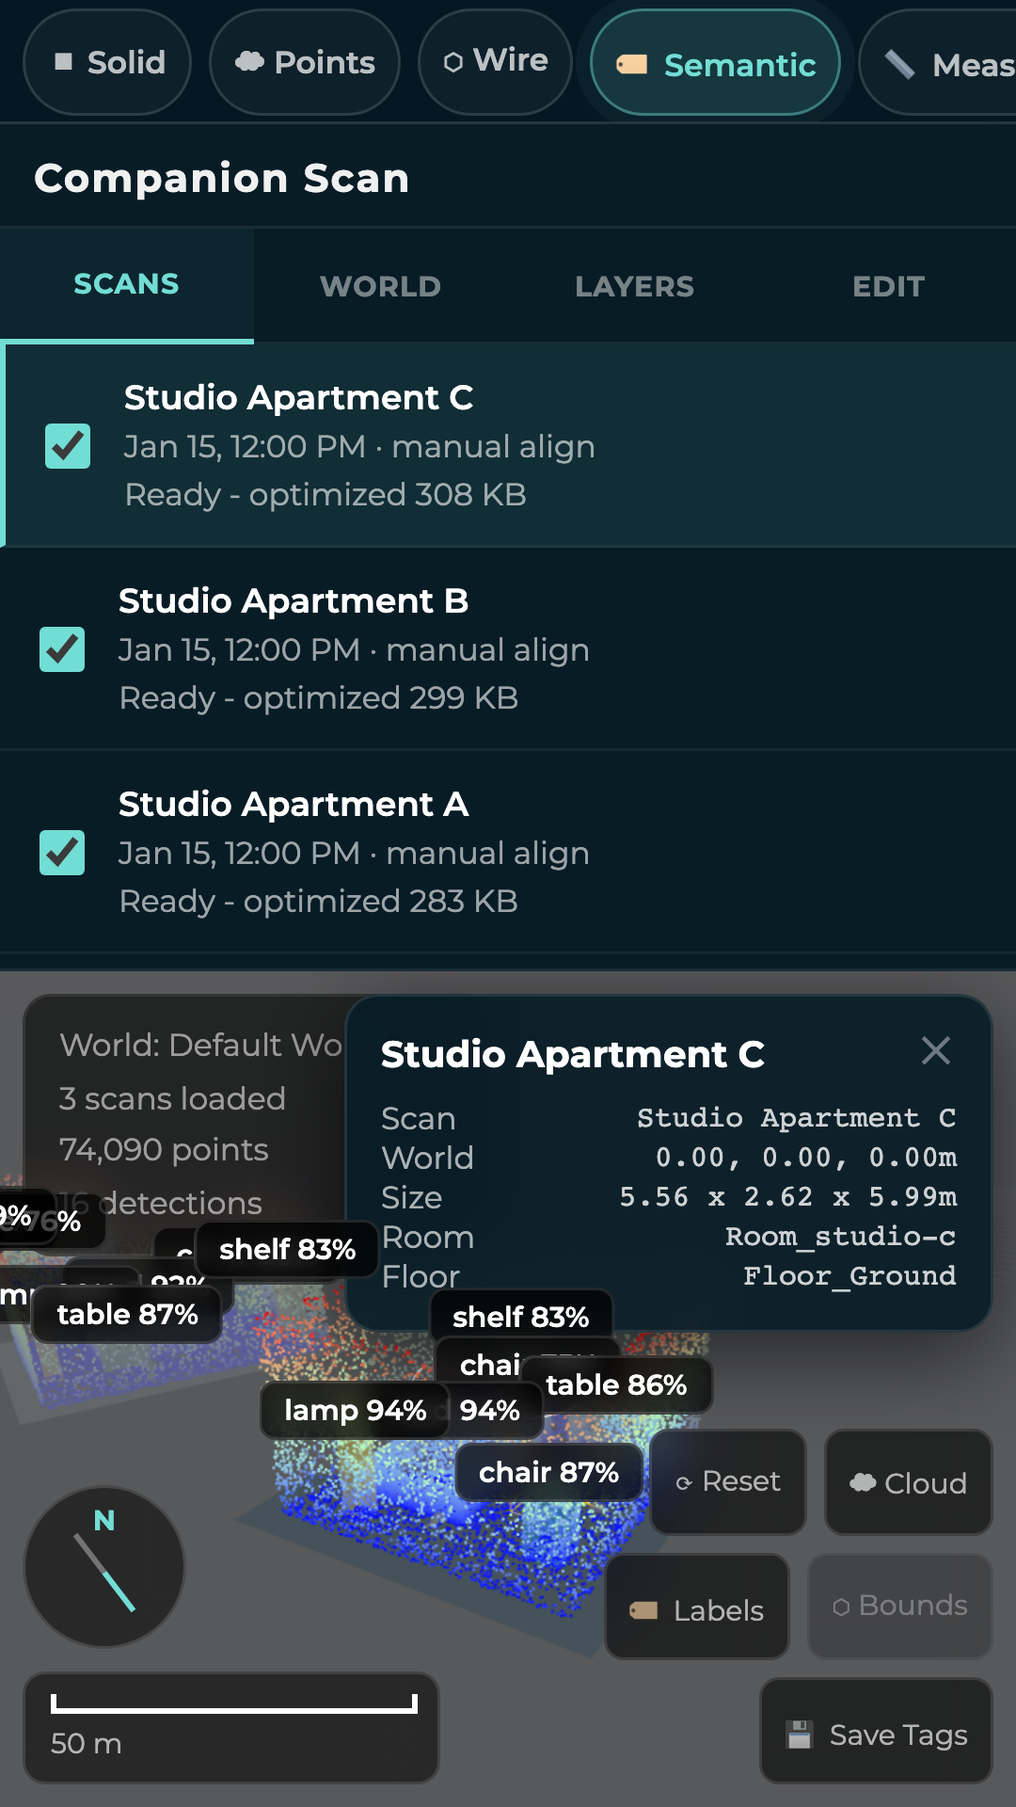
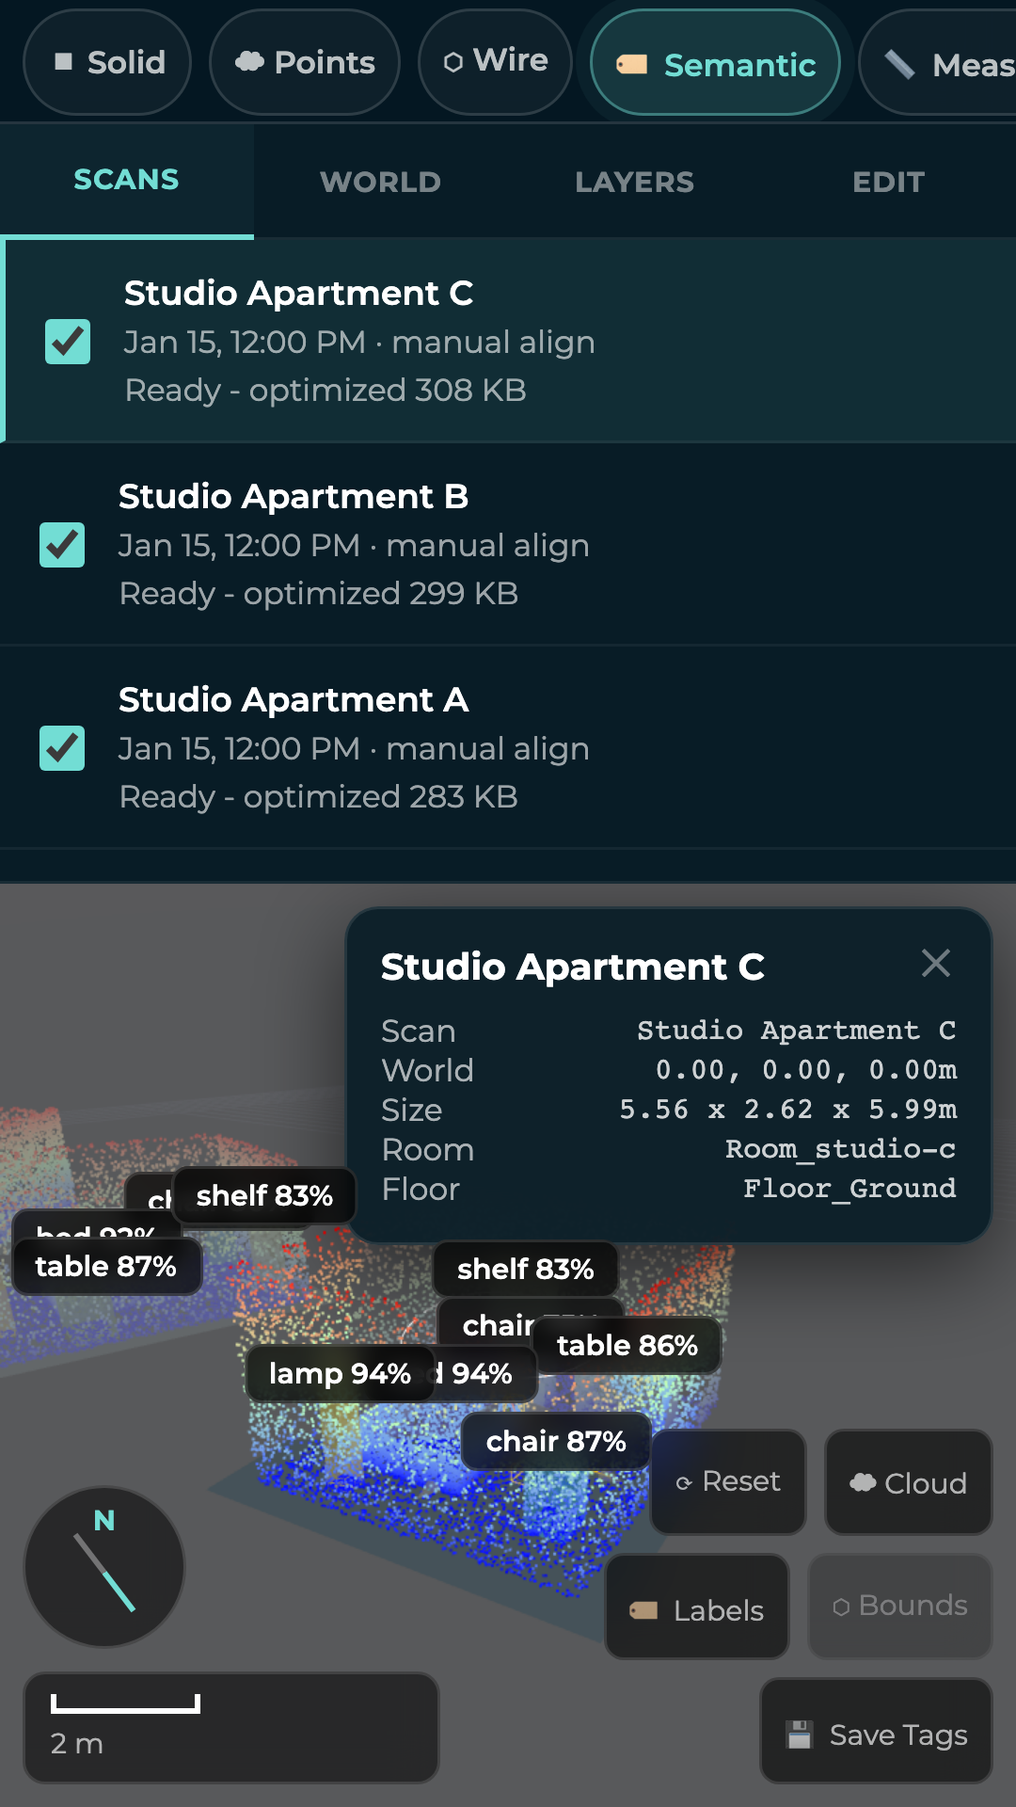
fix(mobile): give the review panel and the World Editor a 360 px layout
The five portrait frames PR #36 left unshot were never a capture problem.
Two screens had no working layout at 360x640, and the rule that stopped them
shipping was that a missing shot is a known gap while a bad shot is a lie.
Both screens are fixed at the source, so all seventeen shots now exist in
both viewports.

Review & Export. #panel-footer carries ten controls and stands ~490 px tall,
and #panel-content is `flex: 1` — a zero basis that claims only what is left,
which at 640 px was 84 px. The panel sliced its own empty state through the
middle of "No objects yet." and a detection card through its description row.
Below 700 px tall the footer is now the box that scrolls and the object list
keeps a 40vh floor; `min-height: 0` is load-bearing, because a flex item
defaults to `min-height: auto` and that is what pinned the footer at full
height. A box that really does overflow fades its bottom edge rather than
ending mid-word.

World Editor. `min-height: 300px` overrode the 44vh sitting next to it, so
the canvas was always a 296 px strip; #inspector-panel covered half the world
readout; and semantic chips clipped against the canvas edge, where
translate(-50%) rendered "lamp 94%" as "%". The viewport-relative height
applies again, the sidebar title bar (which repeats the toolbar's own product
name) and the collapse chevron (parked 28 px outside a full-width sidebar,
where #main-area clips it) drop on a phone, the readout yields to the
[…]

diff --git a/src/viewer/viewer.ts b/src/viewer/viewer.ts
@@ -353,6 +353,21 @@ function updatePointCloudLOD(): void {
   }
 }
 
+/** Breathing room between an edge-pinned chip and the canvas edge. */
+const LABEL_EDGE_PAD = 4
+/**
+ * How close to an edge an anchor has to be before its chip pins to that edge.
+ * Half the widest chip the semantic overlay can produce, plus the pad: chips are
+ * `<label> <confidence>%` at 10px/600 and `white-space: nowrap`, and the longest
+ * label in CATEGORY_COLORS ("bookcase 100%") measures about 92 px.
+ */
+const LABEL_EDGE_ZONE = 50
+/**
+ * Floor for a chip's anchor, so one near the top of the canvas is not cut by it.
+ * A chip is a single nowrap line — 20 px — lifted 6 px clear of its anchor.
+ */
+const LABEL_MIN_TOP = 20 + 6 + LABEL_EDGE_PAD
+
 function updateLabels(): void {
   const viewport = document.getElementById('viewport')!
   const width = viewport.clientWidth
@@ -375,14 +390,37 @@ function updateLabels(): void {
 
     const x = (projected.x * 0.5 + 0.5) * width
     const y = (-projected.y * 0.5 + 0.5) * height
-    if (x < -80 || x > width + 80 || y < -80 || y > height + 80) {
+    // Cull on the ANCHOR, not on a slack box around it. The old +/-80 px margin
+    // let objects that are off-camera label the frame anyway: in a world of three
+    // adjacent rooms, the two rooms either side of the framed one threw their
+    // chips at the canvas edge, where `translate(-50%)` sliced each one into a
+    // fragment — on a 360 px viewport "lamp 94%" arrived as "%". An object that
+    // is not on screen has no business naming anything on screen.
+    if (x < 0 || x > width || y < 0 || y > height) {
       label.el.style.display = 'none'
       continue
     }
 
     label.el.style.display = 'block'
-    label.el.style.left = `${x}px`
-    label.el.style.top = `${y}px`
+    // Keep the chip whole without ever measuring it. A chip is centred on its
+    // anchor by `translate(-50%)`, so an anchor close to the edge hangs half a
+    // box outside the canvas and gets sliced — that is how "lamp 94%" arrived as
+    // "%" at 360 px. Rather than read the box and clamp it, hand the alignment
+    // to CSS: inside the edge zone the chip pins to the edge and aligns away
+    // from it, and the browser applies its own width.
+    //
+    // Not measuring is the point, not an optimisation. updateLabels runs every
+    // frame, so any offsetWidth read here forces a synchronous layout mid-frame
+    // — and a layout forced during the web font's swap window bakes a slightly
+    // different text shaping, which is enough to move every chip by a third of a
+    // pixel. Two captures of the same world then disagree depending only on how
+    // fast the page loaded. The hot path stays writes-only.
+    const pin = x < LABEL_EDGE_ZONE ? 'left' : x > width - LABEL_EDGE_ZONE ? 'right' : ''
+    label.el.dataset['pin'] = pin
+    label.el.style.left = pin === 'left' ? `${LABEL_EDGE_PAD}px`
+      : pin === 'right' ? `${width - LABEL_EDGE_PAD}px`
+      : `${x}px`
+    label.el.style.top = `${Math.max(LABEL_MIN_TOP, y)}px`
     // Nearer labels paint on top. Without this, overlapping labels stack in DOM
     // insertion order, which is the order the scans finished loading — a race, so
     // two identical worlds could paint the same cluster differently. Ranked on
@@ -2025,23 +2063,51 @@ function updateScaleWidget(): void {
   const viewport = document.getElementById('viewport')
   if (!scaleBar || !scaleLabel || !viewport) return
 
-  const candidates = [0.1, 0.25, 0.5, 1, 2, 5, 10, 20, 50]
-  let selected = candidates[3]!
-  let selectedPx = 96
-  for (const meters of candidates) {
-    const px = projectedPixelDistance(controls.target, controls.target.clone().add(new THREE.Vector3(meters, 0, 0)))
-    if (px >= 58 && px <= 130) {
-      selected = meters
-      selectedPx = px
+  // The bar's WIDTH is the claim; the label only says what unit it is in. So the
+  // two have to be the same measurement, and the fallback is where that broke.
+  //
+  // Rungs step by up to 2.5x while [58, 130] px spans only 2.24x, so a camera can
+  // sit in a gap where NO rung fits the bar. The old loop had no answer for that:
+  // it overwrote `selected` on every non-fitting pass and clamped the width, so it
+  // ran off the end of the ladder and drew a 130 px bar under the largest label
+  // there was. The mobile World Editor found that hole the moment its aspect
+  // changed — 2 m projected to 56 px and 5 m to 135 px, and a six-metre room was
+  // captioned "50 m", the same false readout video/README.md calls the tell of a
+  // badly framed shot.
+  //
+  // Below, a gap resolves to the rung that comes CLOSEST to the band, drawn at its
+  // true width. Whenever a rung does fit — which is every camera the band already
+  // covered — the answer is unchanged.
+  const RUNGS = [0.1, 0.25, 0.5, 1, 2, 5, 10, 20, 50, 100, 200]
+  const MIN_PX = 58
+  const MAX_PX = 130
+
+  let meters = 0
+  let px = 0
+  let closest = Infinity
+  for (const rung of RUNGS) {
+    const width = projectedPixelDistance(controls.target, controls.target.clone().add(new THREE.Vector3(rung, 0, 0)))
+    if (!(width > 0)) continue
+    if (width >= MIN_PX && width <= MAX_PX) {
+      meters = rung
+      px = width
       break
     }
-    if (px > 0) {
-      selected = meters
-      selectedPx = Math.min(130, Math.max(42, px))
+    const miss = width < MIN_PX ? MIN_PX - width : width - MAX_PX
+    if (miss < closest) {
+      closest = miss
+      meters = rung
+      px = width
     }
   }
-  scaleBar.style.width = `${selectedPx.toFixed(0)}px`
-  scaleLabel.textContent = selected < 1 ? `${Math.round(selected * 100)} cm` : `${selected} m`
+
+  // Nothing measured — a camera looking straight down the axis being measured
+  // projects every rung to zero width. Hold the last good reading rather than
+  // draw a bar with no length under a unit it does not stand for.
+  if (!meters) return
+
+  scaleBar.style.width = `${Math.min(MAX_PX, px).toFixed(0)}px`
+  scaleLabel.textContent = meters < 1 ? `${Math.round(meters * 100)} cm` : `${meters} m`
 }
 
 function projectedPixelDistance(a: THREE.Vector3, b: THREE.Vector3): number {

diff --git a/viewer.html b/viewer.html
@@ -810,6 +810,14 @@
         backdrop-filter: blur(4px);
       }
 
+      /* Pinned to a canvas edge by updateLabels(): align the chip AWAY from that
+         edge so the browser keeps the whole box on screen using its own width.
+         Centring on the anchor is what used to hang half a chip off the canvas
+         and slice "lamp 94%" down to "%"; doing it this way needs no measurement
+         in the render loop, which is what kept two captures identical. */
+      .label3d[data-pin='left']  { transform: translate(0, -100%) translateY(-6px); }
+      .label3d[data-pin='right'] { transform: translate(-100%, -100%) translateY(-6px); }
+
       #loading-overlay {
         position: absolute;
         inset: 0;
@@ -861,17 +869,27 @@
           flex-direction: column;
         }
 
+        /* `min-height: 300px` overrode the 44vh it sits next to on every phone
+           — 44vh is 282 px at 640 — so the sidebar always took 300 px and left
+           the canvas a 296 px strip. Let the viewport-relative height actually
+           apply. */
         #sidebar {
           width: 100%;
           min-width: 0;
-          height: min(44vh, 370px);
-          min-height: 300px;
+          height: min(42vh, 300px);
+          min-height: 0;
           border-right: none;
           border-bottom: 1px solid rgba(255,255,255,0.07);
         }
 
-        #sidebar-header {
-          padding: 10px 12px 8px;
+        /* Both are pure vertical cost on a phone: #sidebar-header repeats the
+           product name the top toolbar already carries, and the collapse chevron
+           is parked 28 px outside a now-full-width sidebar, where #main-area's
+           `overflow: hidden` clips it — an invisible control paying for a 33 px
+           bar. Dropping them hands that height to the canvas. */
+        #sidebar-header,
+        #sidebar-collapse-btn {
+          display: none;
         }
 
         .sidebar-tab {
@@ -893,6 +911,16 @@
           width: min(230px, calc(100% - 16px));
           top: 8px;
           right: 8px;
+        }
+
+        /* 171 px of world readout and a 230 px inspector do not both fit across
+           a 360 px canvas: they overlapped by 57 px and the inspector covered
+           half of "3 scans loaded / 74,090 points". The inspector is the thing
+           the reader just tapped, so it wins — and nothing is lost, because the
+           same world totals are in the sidebar's World tab and the readout
+           returns the moment the inspector is closed. */
+        #viewport:has(#inspector-panel.visible) #hud-info {
+          display: none;
         }
 
         #world-hud {

diff --git a/index.html b/index.html
@@ -903,6 +903,42 @@
         border-top: 1px solid var(--ci-line);
       }
 
+      /* A scroll box whose last visible line is sliced through the middle reads
+         as broken, not as scrollable. Fade its bottom edge instead — but only
+         while there is genuinely more below: `.is-scrollable` is set from
+         panel.ts against the box's own scrollHeight, so a list that fits is
+         never dimmed for nothing. */
+      #panel-content.is-scrollable,
+      #panel-footer.is-scrollable {
+        -webkit-mask-image: linear-gradient(to bottom, #000 calc(100% - 26px), transparent);
+        mask-image: linear-gradient(to bottom, #000 calc(100% - 26px), transparent);
+      }
+
+      /* ── Short viewports: the footer yields, it does not eat the panel ──────
+         #panel-footer carries ten controls and stands ~490 px tall. #panel-content
+         is `flex: 1`, i.e. a zero basis that only claims what is left over, so on
+         a 640 px phone it was handed 84 px — a scroll box short enough to slice
+         its own empty state through the middle of "No objects yet." and a
+         detection card through its description row.
+
+         Below roughly 700 px there is no arrangement in which the 63 px header,
+         a fixed 490 px footer and one 120 px detection card all fit, so the
+         footer becomes the thing that scrolls and the object list keeps a floor.
+         `min-height: 0` is load-bearing rather than tidy: a flex item defaults to
+         `min-height: auto`, which refuses to shrink below its content height, and
+         that default is exactly what pinned the footer at its full 490 px. */
+      @media (max-height: 700px) {
+        #panel-content {
+          min-height: 40vh;
+        }
+
+        #panel-footer {
+          min-height: 0;
+          overflow-y: auto;
+          -webkit-overflow-scrolling: touch;
+        }
+      }
+
       .panel-btn-primary {
         width: 100%;
         min-height: 44px;

diff --git a/src/ui/panel.ts b/src/ui/panel.ts
@@ -183,6 +183,24 @@ export class SidePanel {
 
     this.store.subscribe((dets, selected) => this.render(dets, selected))
     this.render(this.store.detections, this.store.selected)
+
+    // The footer is built once, but whether it overflows depends on the viewport:
+    // below 700 px tall it scrolls so the object list keeps a usable height
+    // (index.html). Re-check on resize — rotating a phone crosses that boundary.
+    this._markScrollable(this.footer)
+    window.addEventListener('resize', () => {
+      this._markScrollable(this.content)
+      this._markScrollable(this.footer)
+    })
+  }
+
+  /**
+   * Flag a scroll box that has more content below its bottom edge, so the CSS
+   * can fade it. Read synchronously after the DOM is written — the layout it
+   * forces is the same one the next paint would do anyway.
+   */
+  private _markScrollable(el: HTMLElement): void {
+    el.classList.toggle('is-scrollable', el.scrollHeight - el.clientHeight > 1)
   }
 
   setOpen(open: boolean): void {
@@ -226,6 +244,7 @@ export class SidePanel {
             No objects yet.<br>Tap the capture button to scan.
           </p>
         </div>`
+      this._markScrollable(this.content)
       return
     }
 
@@ -245,6 +264,8 @@ export class SidePanel {
     for (const [key, det] of sorted) {
       this.content.appendChild(this._buildCard(key, det, selected.has(key)))
     }
+
+    this._markScrollable(this.content)
   }
 
   private _buildCard(key: string, det: StoredDetection, isSelected: boolean): HTMLElement {

diff --git a/video/README.md b/video/README.md
@@ -69,6 +69,13 @@ Health-check the stage at `https://localhost:$VIDEO_PORT/health` — Vite proxie
 one green response means both servers are up. Knobs: `VIDEO_PORT`, `VIDEO_API_PORT`, `VIDEO_SCANS`
 (default 3), `VIDEO_DATA_DIR`.
 
+**Do not point the e2e suite at a stage you are about to shoot from.** `VITE_URL=https://localhost:$VIDEO_PORT
+npx playwright test` POSTs real scans into world `default` — two dozen of them, named `list-test`,
+`order-a`, `upload-basic`, each rendering "Error: Scan GLB has no scene graph". Every viewer shot then
+films "8 scans loaded · 0 points" instead of the three seeded homes, and it looks like a UI regression.
+`capture.config.mjs` blocks the write routes for the *capture* browser only; it cannot guard another
+process. Restart the stage before re-shooting — it wipes `VIDEO_DATA_DIR` on boot.
+
 The script also places the seeded homes **adjacent** rather than 122 m apart — see
 [Framing the World Editor](#framing-the-world-editor) for why that is load-bearing rather than
 cosmetic, and read its header comment before changing the layout.
@@ -153,32 +160,60 @@ changed. They are the inputs, and they are the reason a render needs no stage.
 a UI change is a deliberate act: run `npm run capture` against the stage, review the image diff,
 and commit the shots like any other change.
 
-### The landscape cut is complete; five portrait frames are deliberately not shot
+### Both cuts are complete
 
-All seventeen shots exist at 1280×720. The seven that had never been taken (`onboard-sweep`,
-`live-scan-early`, `objects-manifest`, `review-panel-empty`, `world-editor-focus`,
-`world-editor-points`, `world-editor-quality`) and the three that had gone stale
-(`world-editor-scans`, `world-editor-semantic`, `review-export-panel`) were all shot against the
-stage above. Two consecutive runs, on two independently built stages, produced **byte-identical**
-PNGs for every one of them.
+All seventeen shots now exist at 1280×720 **and** at 360×640. The five portrait frames that used to
+render as the kit's "capture pending" slate — `objects-manifest.mobile`, `review-panel-empty.mobile`,
+`world-editor-focus.mobile`, `world-editor-points.mobile`, `world-editor-quality.mobile` — were never
+a capture problem. Two screens had no working layout at 360 px, and the rule was that a missing shot
+is a known gap while a bad shot is a lie that ships. Both screens were fixed at the source instead:
 
-**Five 360×640 frames are missing on purpose** and render as the kit's "capture pending" slate:
-
-| Not shipped | Why |
+| What the frame did | What changed |
 |---|---|
-| `objects-manifest.mobile`, `review-panel-empty.mobile` | `#panel-content` is ~90 CSS px tall at 360×640 — the footer takes the rest — so the panel slices its own content mid-line. "No objects yet." is cut in half; the sofa card is cut through its description row. |
-| `world-editor-focus.mobile`, `world-editor-points.mobile`, `world-editor-quality.mobile` | The World Editor has no 360 px layout. The sidebar takes the top two thirds, `#inspector-panel` lands on top of the world-stats overlay, and the semantic labels clip against the left edge of the canvas strip (`lamp 94%` → `%`). |
+| **Review & Export** sliced its own content mid-line. `#panel-footer` carries ten controls and stands ~490 px tall, and `#panel-content` is `flex: 1` — a zero basis that claims only what is left, which at 640 px was 84 px. "No objects yet." was cut in half; a detection card was cut through its description row. | Below 700 px tall the **footer** is the box that scrolls and `#panel-content` keeps a `40vh` floor ([`index.html`](../index.html)). `min-height: 0` on the footer is the load-bearing part — a flex item defaults to `min-height: auto` and refuses to shrink below its content. A box that really does overflow now fades its bottom edge rather than ending mid-word (`.is-scrollable`, set against the box's own `scrollHeight` from [`src/ui/panel.ts`](../src/ui/panel.ts)). |
+| **World Editor** had no 360 px layout. `min-height: 300px` overrode the `44vh` sitting next to it, so the canvas was always a 296 px strip; `#inspector-panel` covered half the world readout; and semantic chips clipped against the canvas edge, where `translate(-50%)` rendered `lamp 94%` as `%`. | The viewport-relative sidebar height applies again, and the title bar (which repeats the toolbar's own product name) and the collapse chevron (parked 28 px outside a full-width sidebar, where `#main-area` clips it) are dropped on a phone — 31 px back to the canvas ([`viewer.html`](../viewer.html)). The world readout yields to the inspector instead of sitting under it; the same totals are in the sidebar's World tab. Labels are culled on their **anchor** rather than an ±80 px slack box, so an off-camera room stops labelling the frame, and a chip inside the edge zone pins to that edge and aligns away from it ([`viewer.ts`](../src/viewer/viewer.ts) `updateLabels`, `.label3d[data-pin]` in [`viewer.html`](../viewer.html)). |
 
-The rule this follows: a missing shot is a known gap, a bad shot is a lie that ships. Do **not**
-"fix" these by re-running `capture` — the kit shoots both viewports for every shot, so a plain
-`npm run capture` regenerates all five. Delete them again, or give the product a mobile layout.
+Sixteen frames were re-shot for this — the five above, plus every landscape and portrait frame the two
+fixes could move — and fifteen changed. (`review-panel-empty.png` did not: at 1280×720 the empty state
+already fit its scroll box, so nothing there overflows and nothing fades.) Two consecutive captures,
+one against a cold Vite module graph and one warm, produced **byte-identical** PNGs for all sixteen.
 
-Three portrait frames in the same family — `review-export-panel.mobile`,
-`world-editor-scans.mobile`, `world-editor-semantic.mobile` — **were** re-shot and committed. They
-have the same layout crowding, but they were already committed *and* the versions they replace
-burned a live street-level `ENU … 37.775726, -122.418800` readout into the frame. Replacing a
-coordinate leak with a crowded layout is strictly better; dropping them is better still, and is the
-recommendation once someone decides the portrait cut can lose those beats.
+The label fix is not mobile-only. `world-editor-scans.png` at 1280×720 had the same clipped chip all
+along, just less obviously: a `lamp 83%` cut in half by the canvas edge, next to a second chip reduced
+to `4%`. Both are whole now.
+
+**Do not place these chips by measuring them.** The obvious fix — read `offsetWidth` and clamp the box
+into the canvas — was written first and it broke byte stability. `updateLabels` runs every frame, so
+reading a box there forces a synchronous layout mid-frame; a layout forced inside the web font's swap
+window bakes a slightly different text shaping, and that moves *every* chip by about a third of a
+pixel. It is not a visible defect and it is not GPU noise: it showed up as ~2,800 differing pixels
+between a capture on a cold Vite module graph and one on a warm graph, and the same shot was
+rock-steady across four warm runs, which is exactly how a real regression disguises itself as a fluke.
+Batching the reads into one per frame did not fix it; moving the measurement out of the loop entirely
+did. `data-pin` hands the alignment to CSS, the render loop writes and never reads, and cold and warm
+captures agree to the byte.
+
+#### The scale bar was captioning a six-metre room "50 m"
+
+Found while re-shooting, and worth knowing about because the frame looked plausible. `updateScaleWidget`
+picked the first rung of `[0.1 … 50]` whose projected width landed in **[58, 130] px** — but rungs step
+by up to 2.5× and that band spans only 2.24×, so a camera can sit in a gap where *no* rung fits. The
+loop had no answer for that: it overwrote its choice on every non-fitting pass and clamped the width,
+so it ran off the end of the ladder and drew a 130 px bar under the largest label there was.
+
+The mobile World Editor found the gap the moment its aspect ratio changed — 2 m projected to 56 px and
+5 m to 135 px — and captioned a six-metre room `50 m`, which is exactly the readout
+[Framing the World Editor](#framing-the-world-editor) below calls the tell of a badly framed shot. A
+gap now resolves to the rung **closest** to the band, drawn at its true width; wherever a rung does
+fit, the answer is unchanged, which is why no committed landscape frame moved because of it.
+
+#### What the fixes deliberately leave alone
+
+Where several detected objects project close together, their chips overlap **each other**. Every
+portrait World Editor frame shows it, because the canvas is smaller — but it is the same behaviour at
+1280×720, it is the app's and not the capture's, and no chip is cut any more. Thinning a dense cluster
+is a product decision about the semantic overlay, not a responsive-layout bug, and it is not what this
+change is for.
 
 ### Framing the World Editor
 
